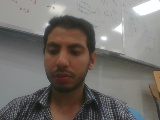
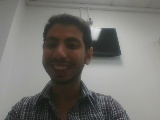
finish without speech, need testing with multiple people

diff --git a/whoami.py b/whoami.py
@@ -23,6 +23,7 @@ known_face_encodings = []
 known_face_names = []
 smiles = []
 count = []
+isFirst = []
 #
 # # Load sample pictures and learn how to recognize it.
 # for pic in pics:
@@ -33,6 +34,8 @@ count = []
 #         known_face_encodings.append(img_encoding)
 #         known_face_names.append('Prof. Dr. Slim Abdennadher')
 #         smiles.append(False)
+#         count.append(12)
+#         isFirst.append(True)
 #
 #
 # ## Prof. Dr. Ashraf Mansour
@@ -50,6 +53,8 @@ count = []
 #         known_face_encodings.append(img_encoding)
 #         known_face_names.append('Prof. Dr. Ashraf Mansour')
 #         smiles.append(False)
+#         count.append(12)
+#         isFirst.append(True)
 
 ## Michael Khalil
 os.chdir(owd)
@@ -67,6 +72,7 @@ for pic in pics:
         known_face_names.append('Michael Khalil')
         smiles.append(False)
         count.append(12)
+        isFirst.append(True)
 
 
 # Initialize some variables
@@ -103,7 +109,9 @@ while True:
             if True in matches:
                 first_match_index = matches.index(True)
                 name = known_face_names[first_match_index]
-                if(not smiles[first_match_index]):
+                if (process_this_frame):
+                    count[first_match_index] = count[first_match_index] - 1
+                if(not smiles[first_match_index] and count[first_match_index] <= 1):
                     # big_frame = cv2.resize(frame, (0, 0), fx=2.0, fy=2.0)
                     # rgb_big_frame = big_frame[:, :, ::-1].copy(order='C')
                     os.chdir(owd)
@@ -112,6 +120,7 @@ while True:
                         image_to_annotate = f.read()
                     smiles[first_match_index] = annotate.annotate_image(image_to_annotate)
                     print(smiles[first_match_index])
+
 
             face_names.append(name)
 
@@ -151,7 +160,20 @@ while True:
                 # Draw a label with a name below the face
                 cv2.rectangle(frame, (left, bottom - 35), (right, bottom), color, cv2.FILLED)
                 font = cv2.FONT_HERSHEY_DUPLEX
-                cv2.putText(frame, 'Hello ' + name + ', I heard you have the best smile', (left + 6, bottom - 6), font, 0.5, (255, 255, 255), 1)
+                if (count[index] <= 6 and count[index] > 1):
+                    print (count[index]//2)
+                    cv2.putText(frame, 'Please smile in ' + `count[index]//2`, (left + 6, bottom - 6), font, 0.5, (255, 255, 255), 1)
+                elif (count[index] <= 1):
+                        count[first_match_index] = 12
+                        isFirst[first_match_index] = False
+                        cv2.putText(frame, 'I know you can do better than this',
+                                    (left + 6, bottom - 6), font, 0.5, (255, 255, 255), 1)
+                else:
+                    if isFirst[first_match_index]:
+                        cv2.putText(frame, 'Hello ' + name + ', I heard you have the best smile', (left + 6, bottom - 6), font, 0.5, (255, 255, 255), 1)
+                    else:
+                        cv2.putText(frame, 'I know you can do better than this',
+                                    (left + 6, bottom - 6), font, 0.5, (255, 255, 255), 1)
         else:
             # Draw a box around the face
             cv2.rectangle(frame, (left, top), (right, bottom), color, 2)
